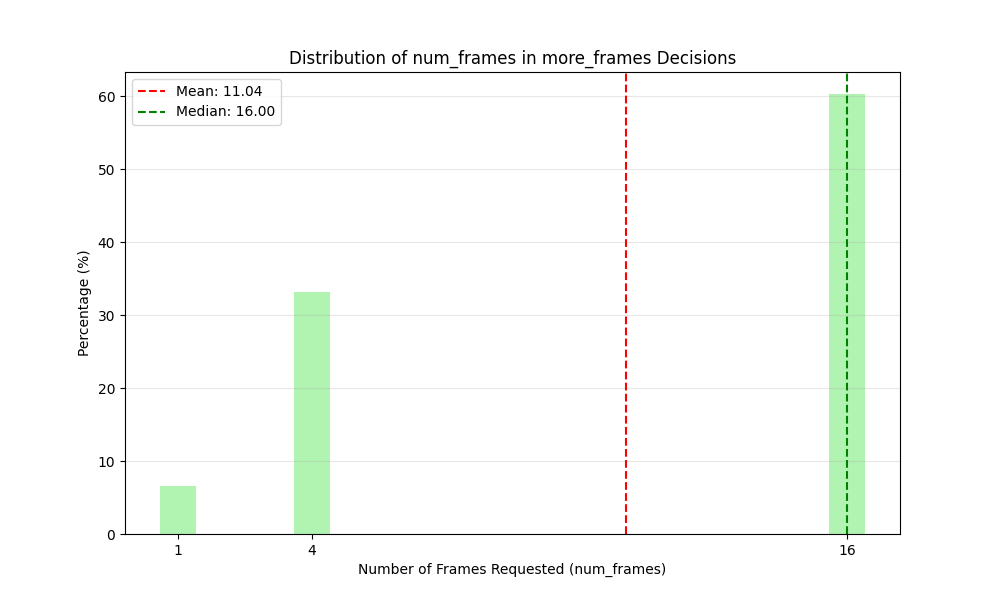
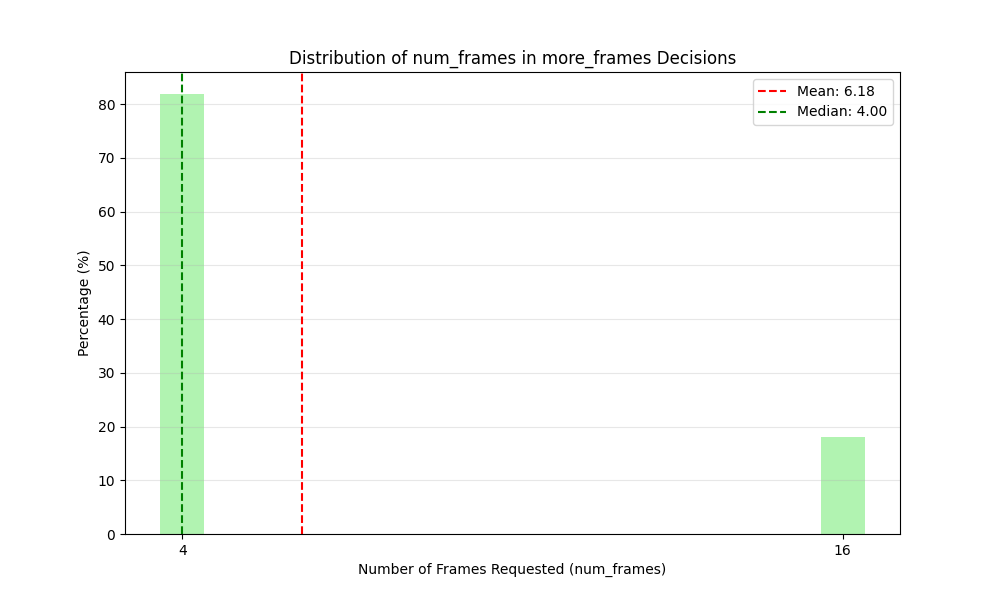
Plot correlation between num of rounds and correctness and show histogram for all sampled timestamps

diff --git a/count_dynamic_sampling_rounds.py b/count_dynamic_sampling_rounds.py
@@ -4,9 +4,10 @@ import numpy as np
 import re
 from collections import Counter
 import datetime
+from scipy.stats import pearsonr
 
 # Load the JSON file
-with open('data/egoschema/subset_dynamic_sampling_gpt-4o.json', 'r') as f:
+with open('data/egoschema/subset_dynamic_sampling_gpt-4o-2024-08-06_max_iter_10.json', 'r') as f:
     data = json.load(f)
 
 # Count <image> tags in responses for items with "pred"
@@ -15,6 +16,9 @@ image_counts_after_first = []  # Count images after first question
 num_frames_counts = []  # Count num_frames in more_frames decisions
 start_timestamps = []  # Store start_timestamp values
 end_timestamps = []    # Store end_timestamp values
+correct_predictions = []  # Store whether prediction was correct
+item_ids = []  # Store item IDs for reference
+timestamp_frames_tuples = []  # Store (start_timestamp, end_timestamp, num_frames) tuples
 
 for item_id, item in data.items():
     if "pred" in item:
@@ -25,7 +29,7 @@ for item_id, item in data.items():
         
         for response in item.get("response", []):
             # Count occurrences of <image> in this response element
-            count += response.count("<image>")
+            count += response.count("PngImageFile")
             
             # Check if this is or contains the first question
             if not found_first_question and "[Question and 5 Options to Solve]" in response:
@@ -34,7 +38,7 @@ for item_id, item in data.items():
             
             # Count images after the first question
             if found_first_question:
-                count_after_first += response.count("<image>")
+                count_after_first += response.count("PngImageFile")
             
             # Extract num_frames from responses starting with "{"
             if response.startswith("{"):
@@ -42,19 +46,33 @@ for item_id, item in data.items():
                     response_json = json.loads(response)
                     if "decision" in response_json and response_json["decision"]["type"] == "more_frames":
                         num_frames = response_json["decision"]["num_frames"]
-                        num_frames_counts.append(int(num_frames))
+                        num_frames_int = int(num_frames)
+                        num_frames_counts.append(num_frames_int)
                         
                         # Extract timestamps if they exist
+                        start_timestamp = None
+                        end_timestamp = None
                         if "start_timestamp" in response_json["decision"]:
-                            start_timestamps.append(response_json["decision"]["start_timestamp"])
+                            start_timestamp = response_json["decision"]["start_timestamp"]
+                            start_timestamps.append(start_timestamp)
                         if "end_timestamp" in response_json["decision"]:
-                            end_timestamps.append(response_json["decision"]["end_timestamp"])
+                            end_timestamp = response_json["decision"]["end_timestamp"]
+                            end_timestamps.append(end_timestamp)
+                        
+                        # Store the tuple if we have both timestamps
+                        if start_timestamp and end_timestamp:
+                            timestamp_frames_tuples.append((start_timestamp, end_timestamp, num_frames_int))
                 except (json.JSONDecodeError, KeyError):
                     pass
         
         image_counts.append(count)
         if found_first_question:
             image_counts_after_first.append(count_after_first)
+        
+        # Store whether prediction was correct (1 for correct, 0 for incorrect)
+        is_correct = 1 if item.get("pred") == item.get("truth", "") else 0
+        correct_predictions.append(is_correct)
+        item_ids.append(item_id)
 
 # Calculate statistics for all images
 total_items = len(image_counts)
@@ -95,6 +113,12 @@ print(f"Mean num_frames: {mean_num_frames:.2f}")
 print(f"Median num_frames: {median_num_frames:.2f}")
 print(f"Standard deviation of num_frames: {std_num_frames:.2f}")
 
+# Calculate correlation between number of rounds and correctness
+correlation, p_value = pearsonr(image_counts, correct_predictions)
+print("\nCorrelation between number of rounds and correctness:")
+print(f"Pearson correlation coefficient: {correlation:.4f}")
+print(f"P-value: {p_value:.4f}")
+
 # Plot distribution of image counts
 plt.figure(figsize=(10, 6))
 
@@ -124,6 +148,34 @@ plt.legend()
 
 # Save the plot
 plt.savefig('dynamic_sampling_rounds.png')
+plt.show()
+
+# Plot scatterplot of rounds vs correctness
+plt.figure(figsize=(12, 6))
+
+# Create jittered y-values for better visualization
+jitter = np.random.normal(0, 0.05, size=len(correct_predictions))
+jittered_correct = np.array(correct_predictions) + jitter
+
+# Create the scatterplot
+plt.scatter(image_counts, jittered_correct, alpha=0.5, c='blue')
+
+# Add a trend line
+z = np.polyfit(image_counts, correct_predictions, 1)
+p = np.poly1d(z)
+plt.plot(sorted(set(image_counts)), p(sorted(set(image_counts))), "r--", 
+         label=f"Trend line (r={correlation:.4f}, p={p_value:.4f})")
+
+# Add labels and title
+plt.xlabel('Number of Dynamic Sampling Rounds')
+plt.ylabel('Prediction Correctness (1=Correct, 0=Incorrect)')
+plt.title('Correlation Between Number of Rounds and Prediction Correctness')
+plt.yticks([0, 1], ['Incorrect', 'Correct'])
+plt.grid(True, alpha=0.3)
+plt.legend()
+
+# Save the plot
+plt.savefig('rounds_vs_correctness.png')
 plt.show()
 
 # Plot distribution of num_frames
@@ -168,34 +220,34 @@ def timestamp_to_seconds(timestamp):
             return int(parts[0]) * 3600 + int(parts[1]) * 60 + float(parts[2])
     return float(timestamp)  # Assume it's already in seconds
 
-# Convert timestamps to seconds
-start_seconds = [timestamp_to_seconds(ts) for ts in start_timestamps]
-end_seconds = [timestamp_to_seconds(ts) for ts in end_timestamps]
+# Generate sampled timestamps using the stored tuples
+sampled_timestamps = []
+for start_ts, end_ts, num_frames in timestamp_frames_tuples:
+    start_sec = timestamp_to_seconds(start_ts)
+    end_sec = timestamp_to_seconds(end_ts)
+    
+    # Generate uniformly sampled timestamps between start and end
+    if start_sec < end_sec:  # Ensure valid interval
+        interval_samples = np.linspace(start_sec, end_sec, num_frames)
+        sampled_timestamps.extend(interval_samples)
 
 # Plot distribution of timestamps
 plt.figure(figsize=(12, 6))
 
-# Create histograms for start and end timestamps
+# Create histogram for sampled timestamps
 bins = np.linspace(0, 180, 37)  # 5-second bins from 0 to 180 seconds (3 minutes)
-start_hist, _ = np.histogram(start_seconds, bins=bins)
-end_hist, _ = np.histogram(end_seconds, bins=bins)
+sampled_hist, _ = np.histogram(sampled_timestamps, bins=bins)
 
 # Calculate percentages
-start_percentage = 100 * start_hist / len(start_seconds) if len(start_seconds) > 0 else start_hist
-end_percentage = 100 * end_hist / len(end_seconds) if len(end_seconds) > 0 else end_hist
+sampled_percentage = 100 * sampled_hist / len(sampled_timestamps) if len(sampled_timestamps) > 0 else sampled_hist
 
-# Plot histograms side by side (not overlapping)
-bar_width = (bins[1]-bins[0]) * 0.4  # Make bars narrower
-bar_positions_start = bins[:-1]  # Position for start bars
-bar_positions_end = bins[:-1] + bar_width  # Position for end bars slightly to the right
-
-plt.bar(bar_positions_start, start_percentage, width=bar_width, color='blue', label='Start Timestamps')
-plt.bar(bar_positions_end, end_percentage, width=bar_width, color='red', label='End Timestamps')
+# Plot histogram
+plt.bar(bins[:-1], sampled_percentage, width=(bins[1]-bins[0])*0.8, color='green', alpha=0.7, label='Sampled Frames')
 
 # Add labels and title
 plt.xlabel('Time (seconds)')
 plt.ylabel('Percentage (%)')
-plt.title('Distribution of Start and End Timestamps in more_frames Decisions')
+plt.title('Distribution of Sampled Timestamps in Dynamic Sampling')
 
 # Create custom x-ticks in mm:ss format
 x_ticks = np.arange(0, 181, 15)  # Every 15 seconds
